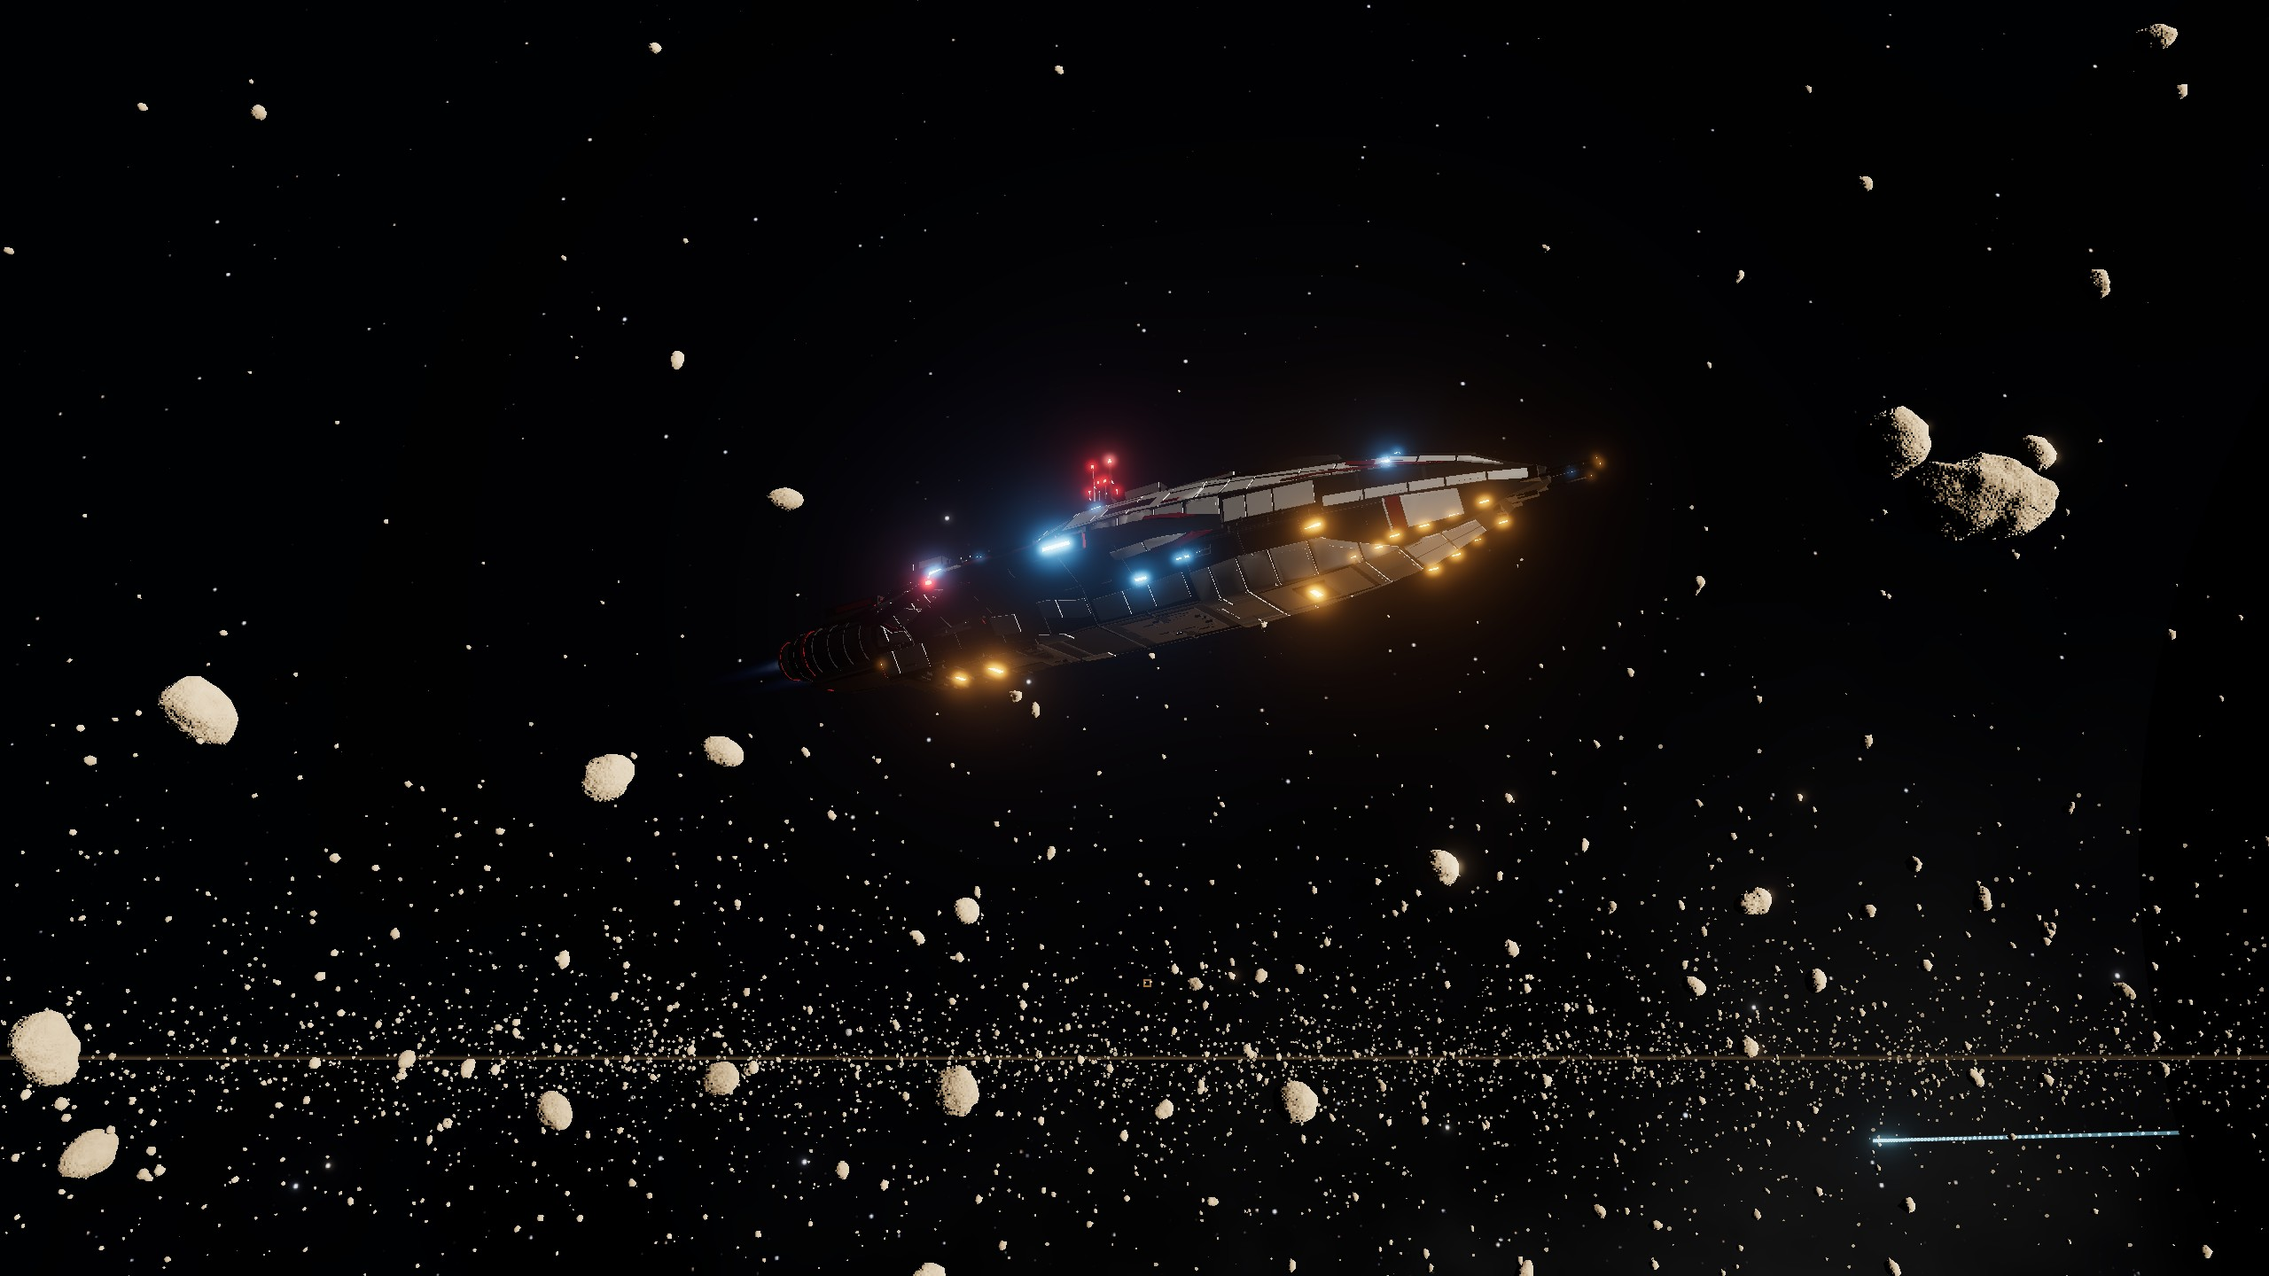
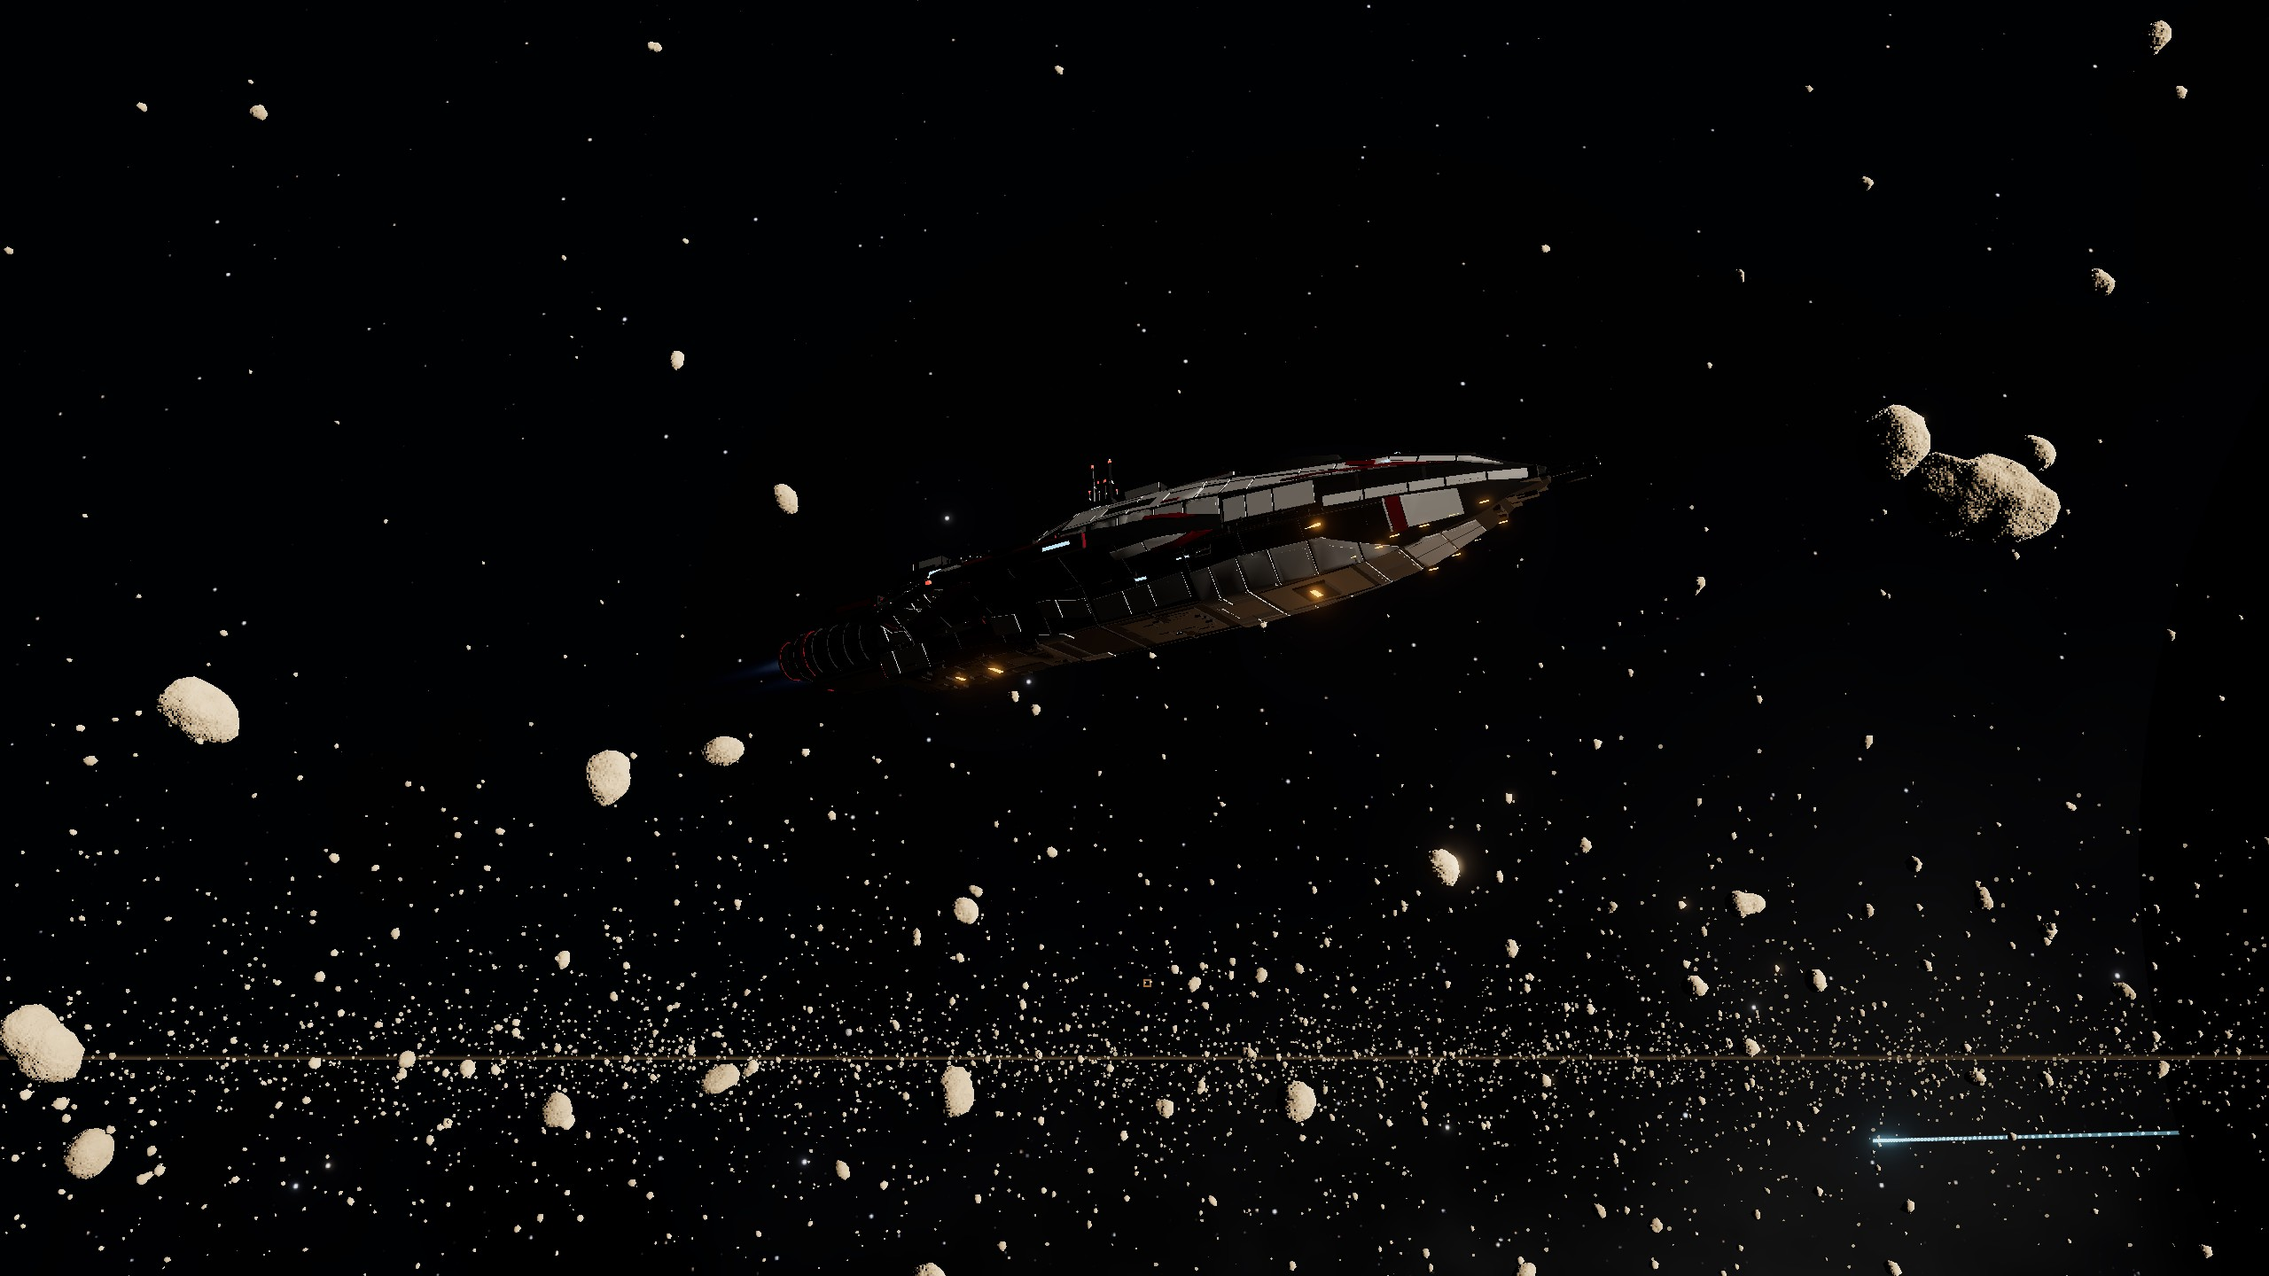
Grande Fronde : retouches après essai sur téléphone
- Rotation des rochers et fragments : horloge propre plafonnée à 0,5 s de
  temps simulé par image (le temps accéléré des vues d'ensemble les faisait
  toupiller) ; fragments d'anneaux à un tour en 10 min à 1 h.
- Passage rasant sur Kesh (38-44 i/s mesurés sur iPhone) : le relief fin part
  de l'octave que la géométrie ne porte plus (fondu de la première octave),
  plafond d'octaves par niveau de qualité, subdivision un peu moins fine en
  Haute : 279 → 228 appels, 705 k → 574 k triangles.
- Géante de près : couche de nuages rapprochée (volutes étirées dans le sens
  des vents, octaves selon la taille d'un pixel) et relief doux des sommets
  de nuages par perturbation de normale ; coupée en Minimale.
- Racer : lumière renvoyée par la géante calculée (taille apparente × part
  éclairée), feux de navigation atténués, reflets plus présents.
- Captures 02, 03, 04 et poursuite refaites.

Claude-Session: https://claude.ai/code/session_016BkiKzJakB84H25ofVq5Gz

diff --git a/sandbox/bodies/GasGiant.js b/sandbox/bodies/GasGiant.js
@@ -62,6 +62,7 @@ uniform vec3 uSunL, uCamL, uStormColor, uNight, uSunCol;
 uniform float uPhase, uDiffT, uDiffP, uJets, uJetCount, uWarp, uTurb, uSunI, uAurora, uLightning, uFlashT;
 uniform float uRingIn, uRingOut, uHasRing;
 uniform int uOct;
+uniform float uNear, uPix;
 uniform vec4 uStorms[4];
 uniform int uStormCount;
 varying vec3 vP;
@@ -120,9 +121,34 @@ void main(){
   #endif
   vec3 albedo = P.rgb;
 
+  // détail rapproché : cellules nuageuses moutonnées et relief des sommets de nuages (perturbation de normale),
+  // octaves ouvertes selon la taille d'un pixel à la surface ; calculé seulement de près (uNear > 0)
+  vec3 nl = n;                                                   // normale d'éclairage (relief des nuages)
+  if (uNear > 0.0){
+    vec3 q = rotY(n, -uPhase);
+    float foot = length(n - uCamL) * uPix;                       // taille d'un pixel, en rayons planétaires
+    // nuages étirés dans le sens des vents (longitude : plan xz local) et tordus en volutes
+    vec3 qs = q * vec3(0.28, 1.0, 0.28);
+    float h = 0.0, amp = 0.5, lam = 1.0 / 160.0;                 // ≈ 450 km de large pour une géante de 70 000 km
+    for (int i = 0; i < 7; i++){
+      float w = smoothstep(1.5 * foot, 5.0 * foot, lam);
+      if (w <= 0.0) break;
+      vec3 c = qs / lam + float(i) * 5.17;
+      c += (vec3(vnoise(c * 0.5 + 3.1), vnoise(c * 0.5 + 7.7), vnoise(c * 0.5 + 1.3)) - 0.5) * 1.6;   // volutes
+      float b = smoothstep(0.35, 0.75, vnoise(c));
+      h += amp * b * w; amp *= 0.55; lam *= 0.5;
+    }
+    albedo *= mix(1.0, 0.72 + 0.62 * h, uNear * 0.9);
+    float hb = h * 0.0005 * uNear;                              // relief doux des sommets de nuages
+    vec3 dpx = dFdx(vP), dpy = dFdy(vP);
+    vec3 r1 = cross(dpy, n), r2 = cross(n, dpx); float det = dot(dpx, r1);
+    if (abs(det) > 1e-20) nl = normalize(abs(det) * n - sign(det) * (dFdx(hb) * r1 + dFdy(hb) * r2));
+  }
+
   // éclairage : Lambert enveloppé, rougeoiement au terminateur, limbe assombri
   float ndl = dot(n, uSunL);
-  float diff = clamp((ndl + 0.05) / 1.05, 0.0, 1.0);
+  float ndlB = dot(nl, uSunL);
+  float diff = clamp((mix(ndl, ndlB, smoothstep(-0.02, 0.15, ndl)) + 0.05) / 1.05, 0.0, 1.0);   // le relief n'éclaire pas la nuit
   diff = diff * diff * (3.0 - 2.0 * diff) * 0.35 + diff * 0.65;
   vec3 vdir = normalize(uCamL - n);
   float mu = max(dot(n, vdir), 0.0);
@@ -225,7 +251,7 @@ export class GasGiant {
       uPhase: { value: 0 }, uDiffT: { value: 0 }, uDiffP: { value: 6 * 3600 * (2 * Math.PI / preset.spinPeriod) },
       uJets: { value: preset.jets }, uJetCount: { value: preset.jetCount }, uWarp: { value: preset.warp * 2.6 }, uTurb: { value: preset.turbulence },
       uAurora: { value: preset.aurora || 0 }, uLightning: { value: preset.lightning || 0 }, uFlashT: { value: 0 },
-      uOct: { value: 5 }, uStorms: { value: storms }, uStormCount: { value: (preset.storms || []).length },
+      uOct: { value: 5 }, uNear: { value: 0 }, uPix: { value: 0.001 }, uStorms: { value: storms }, uStormCount: { value: (preset.storms || []).length },
     };
     this.quality = quality; this.octCap = quality >= 2 ? 6 : 10;
     this.surface = new THREE.Mesh(geo, new THREE.ShaderMaterial({
@@ -254,7 +280,7 @@ export class GasGiant {
   get radius() { return this.R; }
   // niveau de détail (LodManager) : plafond d'octaves, fondu des deux phases de rotation (recompile le shader)
   setLod(b) {
-    this.octCap = b.giantOct;
+    this.octCap = b.giantOct; this.nearOn = b.giantNear !== false;
     const m = this.surface.material, has = !!m.defines.CROSSFADE;
     if (has !== b.crossfade) { if (b.crossfade) m.defines.CROSSFADE = 1; else delete m.defines.CROSSFADE; m.needsUpdate = true; }
   }
@@ -275,6 +301,7 @@ export class GasGiant {
     const alt = Math.max(camL.length() - 1, 1e-6);
     const oct = Math.round(5.5 + Math.log2(1 / alt) * 1.25);
     this.uniforms.uOct.value = Math.max(4, Math.min(this.octCap, oct));
+    this.uniforms.uNear.value = this.nearOn === false ? 0 : 1 - THREE.MathUtils.smoothstep(alt, 0.06, 0.7);   // détail rapproché
     // atmosphère : faces avant de l'extérieur, faces arrière de l'intérieur
     this.atmo.material.side = camL.length() < this.Ra ? THREE.BackSide : THREE.FrontSide;
     if (this.ring) this.ring.update(camL, this.uniforms.uSunL.value, sunColor, sunI, timeS);

diff --git a/sandbox/bodies/Moon.js b/sandbox/bodies/Moon.js
@@ -70,17 +70,21 @@ const FRAG = /* glsl */`
 #include <logdepthbuf_pars_fragment>
 ${NOISE}
 uniform vec3 uSun, uSunCol, uColA, uColB, uColC;
-uniform float uSunI, uR, uPix, uT, uBumpK;
+uniform float uSunI, uR, uPix, uT, uBumpK; uniform int uOctMax;
 varying vec3 vN, vPosW, vDir, vSph; varying vec2 vMask;
 void main(){
   #include <logdepthbuf_fragment>
   float dist = length(vPosW), foot = max(dist * uPix, 0.05);
   // relief fin par octaves : chaque longueur d'onde n'apparaît que si elle couvre plusieurs pixels
-  float hs = 0.0, lam = 24000.0;
-  for (int i = 0; i < 11; i++){
-    float w = smoothstep(2.0 * foot, 7.0 * foot, lam);
-    if (w <= 0.0) break;
-    float n = vnoise(vDir * (uR / lam) + float(i) * 7.31);
+  // on part de l'octave que la géométrie ne porte plus (~8 % de la distance) ; l'octave la plus grossière s'efface
+  // en fondu avant d'être retirée, pour qu'aucun raccord n'apparaisse quand le point de départ change
+  float kf = max(0.0, log2(24000.0 / max(0.08 * dist, 1.0))), k0 = floor(kf);
+  float hs = 0.0, lam = 24000.0 * exp2(-k0);
+  for (int i = 0; i < 12; i++){
+    if (i > uOctMax) break;
+    float w = smoothstep(2.0 * foot, 7.0 * foot, lam) * (i == 0 && k0 > 0.0 ? 1.0 - fract(kf) : 1.0);
+    if (lam < 2.0 * foot) break;
+    float n = vnoise(vDir * (uR / lam) + (float(i) + k0) * 7.31);
     #ifdef FAMILY_ROCKY
       n = 1.0 - abs(n * 2.0 - 1.0); n = n * n;                              // creux et bosses façon régolithe cratérisé
     #endif
@@ -163,7 +167,7 @@ export class Moon {
     this.uniforms = {
       uSun: { value: new THREE.Vector3(1, 0, 0) }, uSunCol: { value: new THREE.Color(1, 1, 1) }, uSunI: { value: 1.7 },
       uColA: { value: hex(F.colors[0]) }, uColB: { value: hex(F.colors[1]) }, uColC: { value: hex(F.colors[2]) },
-      uR: { value: this.R }, uPix: { value: 0.001 }, uT: { value: 0 },
+      uR: { value: this.R }, uPix: { value: 0.001 }, uT: { value: 0 }, uOctMax: { value: 8 },
       uBumpK: { value: def.family === 'icy' ? 0.025 : def.family === 'volcanic' ? 0.04 : 0.07 },
     };
     this.material = new THREE.ShaderMaterial({
@@ -173,7 +177,7 @@ export class Moon {
     this.roots = [0, 1, 2, 3, 4, 5].map((f) => this._node(f, -1, -1, 1, 1, 0));
     this.shown = []; this.frameNo = 0; this.camL = new THREE.Vector3();
   }
-  setLod(b) { this.split = b.moonSplit; }
+  setLod(b) { this.split = b.moonSplit; this.uniforms.uOctMax.value = b.moonOct; }
   _node(f, s0, t0, s1, t1, depth) {
     const c = faceDir(f, (s0 + s1) / 2, (t0 + t1) / 2);
     return { f, s0, t0, s1, t1, depth, c, L: this.R * (s1 - s0) * 0.785, state: 0, mesh: null, kids: null, used: 0 };

diff --git a/sandbox/main.js b/sandbox/main.js
@@ -42,7 +42,7 @@ star.pos.set([SUN_DIR.x * 5.2 * AU, SUN_DIR.y * 5.2 * AU, SUN_DIR.z * 5.2 * AU])
 frame.add(star.group, star.pos);
 scene.add(star.group);
 const sunLight = new THREE.DirectionalLight(star.color, 3.2);   // objets PBR (racer)
-const giantShine = new THREE.DirectionalLight(0xffb07a, 0.22);  // lumière renvoyée par la géante, chaude et faible
+const giantShine = new THREE.DirectionalLight(0xffb07a, 0.22);  // lumière renvoyée par la géante (intensité recalculée à chaque image)
 scene.add(sunLight, sunLight.target, giantShine, giantShine.target);
 // reflets des métaux : environnement cuit une fois (espace noir, soleil, grande lueur chaude de la géante)
 {
@@ -314,6 +314,7 @@ function step(dt) {
   giant.update(frame, simT, sunDirAtGiant, star.color, 1.7 * star.type.intensity);
   star.update(frame, simT, camera);
   const pix = THREE.MathUtils.degToRad(camera.fov) / renderer.domElement.height;
+  giant.uniforms.uPix.value = pix;
   for (const m of moons) {
     const sd = new THREE.Vector3(star.pos[0] - m.pos[0], star.pos[1] - m.pos[1], star.pos[2] - m.pos[2]).normalize();
     m.update(frame, camera, sd, star.color, 1.7 * star.type.intensity, pix, simT);
@@ -325,7 +326,14 @@ function step(dt) {
     field.update(frame, camera, sd, star.color, 1.7 * star.type.intensity, pix, simT);
   }
   sunLight.position.copy(sunDirAtGiant).multiplyScalar(1000); sunLight.target.position.set(0, 0, 0);
-  giantShine.position.set(giant.pos[0] - racer.pos[0], giant.pos[1] - racer.pos[1], giant.pos[2] - racer.pos[2]).normalize().multiplyScalar(1000);
+  {
+    // lumière renvoyée par la géante : proportionnelle à sa taille apparente et à la part éclairée vue du racer
+    const gx = giant.pos[0] - racer.pos[0], gy = giant.pos[1] - racer.pos[1], gz = giant.pos[2] - racer.pos[2];
+    const d = Math.hypot(gx, gy, gz), solid = Math.min(1, (giant.R / d) ** 2);
+    const lit = 0.5 - 0.5 * (gx * SUN_DIR.x + gy * SUN_DIR.y + gz * SUN_DIR.z) / d;      // 1 = on voit sa face de jour
+    giantShine.intensity = 0.05 + 3.2 * 0.55 * solid * lit;
+    giantShine.position.set(gx, gy, gz).multiplyScalar(1000 / d);
+  }
   racer.update(frame, simT, performance.now() / 1000);
   holo.group.visible = racerOn;
   // lisibilité en vue système : balise du racer, lunes agrandies (jamais en vue rapprochée : échelle réelle)

diff --git a/sandbox/core/LodManager.js b/sandbox/core/LodManager.js
@@ -8,10 +8,10 @@
 // desquelles un rocher passe au détail 0 (1 280 triangles), 1 (320), 2 (20), ou reste un point ; le relief fin est
 // porté par l'éclairage, donc le détail 1 suffit jusqu'à ~110 px. rockShare : part du budget de triangles des rochers.
 export const BUDGETS = [
-  { name: 'Haute', dpr: 2, calls: 400, tris: 1.5e6, bloom: true, giantOct: 10, crossfade: true, moonSplit: 0.32, rockPx: [110, 14, 3, 0.45], rockKeep: 1, dust: 1, rockShare: 0.7 },
-  { name: 'Moyenne', dpr: 1.25, calls: 250, tris: 6e5, bloom: true, giantOct: 8, crossfade: true, moonSplit: 0.42, rockPx: [140, 18, 4, 0.7], rockKeep: 0.75, dust: 0.7, rockShare: 0.6 },
-  { name: 'Économe', dpr: 1, calls: 150, tris: 3e5, bloom: false, giantOct: 6, crossfade: false, moonSplit: 0.62, rockPx: [180, 24, 5.5, 1.0], rockKeep: 0.5, dust: 0.45, rockShare: 0.5 },
-  { name: 'Minimale', dpr: 0.75, calls: 120, tris: 2e5, bloom: false, giantOct: 5, crossfade: false, moonSplit: 0.85, rockPx: [240, 32, 8, 1.6], rockKeep: 0.33, dust: 0.25, rockShare: 0.4 },
+  { name: 'Haute', dpr: 2, calls: 400, tris: 1.5e6, bloom: true, giantOct: 10, crossfade: true, moonSplit: 0.38, rockPx: [110, 14, 3, 0.45], rockKeep: 1, dust: 1, rockShare: 0.7, moonOct: 8 },
+  { name: 'Moyenne', dpr: 1.25, calls: 250, tris: 6e5, bloom: true, giantOct: 8, crossfade: true, moonSplit: 0.42, rockPx: [140, 18, 4, 0.7], rockKeep: 0.75, dust: 0.7, rockShare: 0.6, moonOct: 6 },
+  { name: 'Économe', dpr: 1, calls: 150, tris: 3e5, bloom: false, giantOct: 6, crossfade: false, moonSplit: 0.62, rockPx: [180, 24, 5.5, 1.0], rockKeep: 0.5, dust: 0.45, rockShare: 0.5, moonOct: 4 },
+  { name: 'Minimale', giantNear: false, dpr: 0.75, calls: 120, tris: 2e5, bloom: false, giantOct: 5, crossfade: false, moonSplit: 0.85, rockPx: [240, 32, 8, 1.6], rockKeep: 0.33, dust: 0.25, rockShare: 0.4, moonOct: 3 },
 ];
 
 export class LodManager {

diff --git a/sandbox/bodies/AsteroidField.js b/sandbox/bodies/AsteroidField.js
@@ -154,7 +154,12 @@ export class AsteroidField {
   update(frame, camera, sunDirW, sunColor, sunI, pixAngle, timeS) {
     this.frameNo++; this.sinceBuild++;
     const u = this.uniforms;
-    u.uSun.value.copy(sunDirW); u.uSunCol.value.copy(sunColor); u.uSunI.value = sunI; u.uTime.value = timeS % 1e6;
+    u.uSun.value.copy(sunDirW); u.uSunCol.value.copy(sunColor); u.uSunI.value = sunI;
+    // horloge de rotation propre : suit le temps simulé mais jamais plus vite que 0,5 s par image (×30 à 60 i/s),
+    // sinon le temps accéléré des vues d'ensemble fait toupiller les rochers
+    const dts = this._lastT == null ? 0 : timeS - this._lastT; this._lastT = timeS;
+    this.rotT = ((this.rotT || 0) + Math.min(Math.max(dts, 0), 0.5)) % 1e6;
+    u.uTime.value = this.rotT;
     this.dotU.uProj.value = 1 / pixAngle;
     const cam = frame.cam, C = this.center;
     let pc = [cam[0] - C[0], cam[1] - C[1], cam[2] - C[2]];

diff --git a/sandbox/bodies/RingDebris.js b/sandbox/bodies/RingDebris.js
@@ -43,7 +43,7 @@ export class RingDebrisData {
       h = next(h); const r = L.r * (1 + 1.7 * Math.pow(u01(h), 2.4));
       h = next(h); const shape = (h >>> 8) % 16;
       h = next(h); const az = u01(h) * 2 - 1; h = next(h); const aa = u01(h) * 6.2832, aq = Math.sqrt(1 - az * az);
-      h = next(h); const speed = (2 * Math.PI / (40 + 500 * u01(h))) * (u01(next(h)) < 0.5 ? -1 : 1);
+      h = next(h); const speed = (2 * Math.PI / (600 + 3000 * u01(h)))   // un tour en 10 min à 1 h * (u01(next(h)) < 0.5 ? -1 : 1);
       h = next(h); const phase = u01(h) * 6.2832;
       h = next(h); const ns = [0.9 + 0.2 * u01(h), 0.9 + 0.2 * u01(next(h)), 0.9 + 0.2 * u01(next(next(h)))];
       h = next(h); const tv = 0.8 + 0.35 * u01(h);

diff --git a/sandbox/scene/Racer.js b/sandbox/scene/Racer.js
@@ -152,8 +152,9 @@ export class Racer {
         if (!o.isMesh) return;
         const mat = o.material;
         if (/GLOW_MOTEUR/.test(mat.name)) { mat.emissive.setRGB(...profile.engine); mat.emissiveIntensity = 6; }
-        else if (/GLOW|NAV/.test(mat.name)) { mat.emissiveIntensity = Math.max(mat.emissiveIntensity || 1, 2.5); }
-        else { mat.envMapIntensity = 0.35; }
+        else if (/NAV/.test(mat.name)) { mat.emissiveIntensity = 1.2; }                  // feux de navigation discrets
+        else if (/GLOW/.test(mat.name)) { mat.emissiveIntensity = 1.8; }
+        else { mat.envMapIntensity = 0.6; }
       });
       this.group.add(m); this.model = m; this.ready = true;
     };

diff --git a/docs/grande-fronde/promo/README.md b/docs/grande-fronde/promo/README.md
@@ -1,6 +1,6 @@
 # La Grande Fronde — captures de validation de la Phase 1
 
-Race World Visual Sandbox, 5 novembre 2026. Images en 2560 × 1440, sans interface, rendues par la sandbox
+Race World Visual Sandbox, 5 novembre 2026 (02, 03, 04 et la poursuite refaites après les retouches du jour). Images en 2560 × 1440, sans interface, rendues par la sandbox
 elle-même (`node tools/fronde/shots.js`, densité de pixels 2, qualité Haute). Toutes les échelles sont réelles :
 géante de 70 000 km de rayon, racer SR-01 de 68 m, étoile à 5,2 UA.
 
@@ -22,9 +22,10 @@ Bonus : `bonus_periapse_poursuite.jpg` (poursuite à 58 km/s), `bonus_kesh_devan
 
 ## Points faibles connus (à juger à la validation)
 
-- **Géante de très près** (02, plans rapprochés) : les nuages derrière le racer restent doux, le détail fin du plan
-  rapproché (fin de l'étape 5) n'est pas fait.
-- **Racer** : coque assez sombre dès qu'il n'est pas de trois quarts face au soleil ; feux de navigation très présents.
+- **Géante de très près** : couche de nuages rapprochée ajoutée le 5 novembre (volutes étirées dans le sens des vents,
+  relief doux) ; à juger en mouvement.
+- **Racer** : lumière renvoyée par la géante désormais calculée (taille apparente × part éclairée), feux de
+  navigation atténués ; la coque reste en contre-jour dans la traversée des anneaux (caméra sous le plan).
 - **Zoom** (07, 2ᵉ image) : en traversant le plan des anneaux à mi-parcours, quelques images de stries floues.
 - **Lunes** : pas d'ombres portées du relief (un rebord de cratère n'ombre pas le fond).
 - **Images par seconde réelles** : non mesurées (voir `../PERF_PHASE1.md`), à relever sur iPhone et Android.
